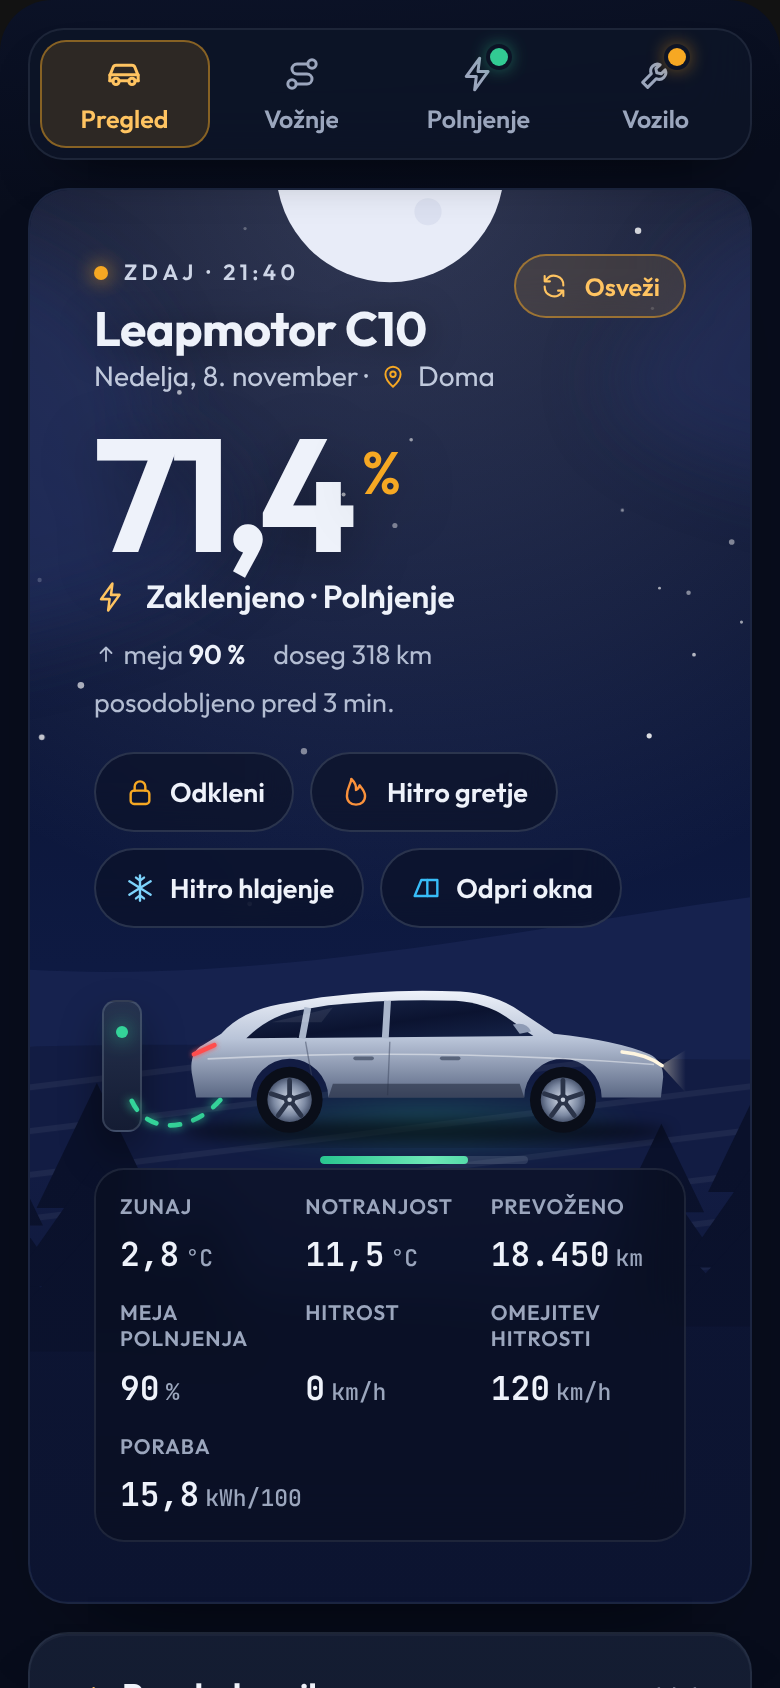
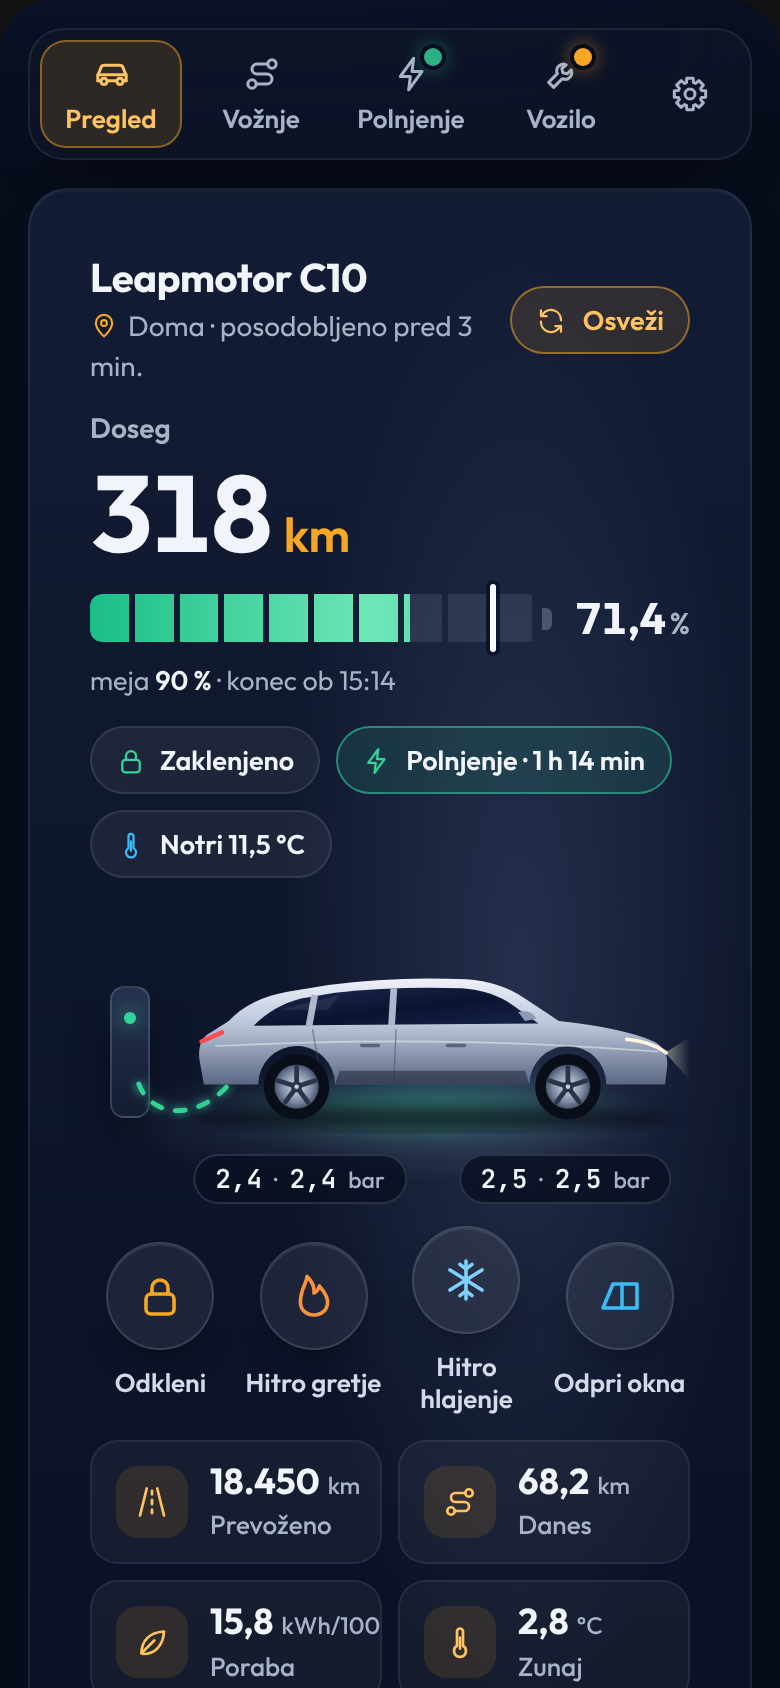
README: show the Car app theme
All README screenshots (English and Slovenian: overview, trips, phone
and the four page views) are re-rendered in the Car app theme, with
the new Settings tab. The banner drops the night sky for the Car app
look: navy studio with the car on a lit floor, range with a segmented
battery bar and tire pressures at the wheels. The README text names the
theme shown and points to the Settings tab and the other two themes.
The remote-control image is unchanged, as that panel looks the same in
every theme.

Claude-Session: https://claude.ai/code/session_01ReYF8JBFAz6XkVGHJAtrq6

diff --git a/docs/preview/banner.html b/docs/preview/banner.html
@@ -9,9 +9,10 @@
     @font-face { font-family: "LM JetBrains Mono"; font-weight: 100 900; src: url("../../custom_components/leapmotor/frontend/fonts/jetbrains-mono-latin-wght-normal.woff2") format("woff2"); }
     :root { color-scheme: dark; }
     html, body { margin: 0; background: transparent; }
-    .banner { position: relative; width: 1280px; height: 560px; overflow: hidden; border-radius: 28px; font-family: "LM Outfit", system-ui, sans-serif; color: #e9eef8; background: #0b1430; }
-    .scene, .scene svg { position: absolute; inset: 0; width: 100%; height: 100%; }
-    .shade { position: absolute; inset: 0; background: linear-gradient(90deg, rgba(7,12,30,.82) 0%, rgba(7,12,30,.45) 42%, rgba(7,12,30,0) 70%); }
+    /* Car app theme of the card: navy studio, spotlight on the car, floor reflection. */
+    .banner { position: relative; width: 1280px; height: 560px; overflow: hidden; border-radius: 28px; font-family: "LM Outfit", system-ui, sans-serif; color: #e9eef8;
+      background: radial-gradient(34% 58% at 75% 66%, rgba(165,190,255,.2), transparent 72%), linear-gradient(180deg, #131c35, #0a1124); }
+    .floor { position: absolute; right: 20px; bottom: 22px; width: 680px; height: 150px; border-radius: 50%; background: radial-gradient(closest-side, rgba(185,205,255,.17), transparent); }
     .copy { position: absolute; left: 64px; top: 60px; width: 600px; }
     .eyebrow { display: flex; align-items: center; gap: 10px; font-size: 13px; font-weight: 600; letter-spacing: .24em; text-transform: uppercase; color: #c3cbe0; }
     .dot { width: 8px; height: 8px; border-radius: 50%; background: #f6a823; box-shadow: 0 0 12px #f6a823; }
@@ -24,31 +25,40 @@
     .chip { display: inline-flex; align-items: center; gap: 8px; padding: 8px 14px; border-radius: 999px; background: rgba(9,15,33,.62); border: 1px solid rgba(148,163,184,.2); font-size: 14px; font-weight: 600; backdrop-filter: blur(8px); }
     .chip i { width: 7px; height: 7px; border-radius: 50%; background: var(--c); box-shadow: 0 0 10px var(--c); }
     .car { position: absolute; right: 70px; bottom: 58px; width: 520px; }
-    .car svg.carsvg { width: 100%; height: auto; display: block; }
+    .car svg.carsvg { width: 100%; height: auto; display: block; -webkit-box-reflect: below -2px linear-gradient(transparent 80%, rgba(255,255,255,.13)); }
+    .tp { position: absolute; top: calc(100% + 12px); transform: translateX(-50%); padding: 3px 11px; border-radius: 999px; background: rgba(9,15,33,.8); border: 1px solid rgba(148,163,184,.22); font: 600 14px "LM JetBrains Mono", monospace; white-space: nowrap; }
+    .tp small { font: 500 12px "LM Outfit", sans-serif; color: #98a3b8; margin-left: 4px; }
     .wallbox { position: absolute; left: -36px; bottom: 12px; width: 22px; height: 74px; border-radius: 7px; background: linear-gradient(180deg,#26324f,#141c33); border: 1px solid rgba(148,163,184,.25); }
     .wallbox::after { content: ""; position: absolute; left: 50%; top: 13px; width: 7px; height: 7px; margin-left: -3.5px; border-radius: 50%; background: #34d399; box-shadow: 0 0 12px #34d399; }
     .cable { position: absolute; left: -26px; bottom: 6%; width: calc(16% + 26px); height: 52%; overflow: visible; }
     .cable path { fill: none; stroke: #34d399; stroke-width: 2.6; stroke-linecap: round; stroke-dasharray: 5 7; filter: drop-shadow(0 0 4px #34d399); }
     .glow { position: absolute; left: 8%; right: 8%; bottom: -8px; height: 40px; border-radius: 50%; background: radial-gradient(closest-side, rgba(52,211,153,.5), transparent); filter: blur(6px); }
-    .stat { position: absolute; right: 86px; top: 70px; padding: 18px 22px; border-radius: 18px; background: rgba(9,15,33,.6); border: 1px solid rgba(148,163,184,.18); backdrop-filter: blur(12px); min-width: 260px; }
-    .stat small { display: block; font-size: 11px; letter-spacing: .22em; text-transform: uppercase; color: #8a95ab; font-weight: 600; }
-    .stat b { display: block; font-size: 54px; line-height: 1; margin-top: 10px; letter-spacing: -.04em; }
-    .stat b em { font-style: normal; font-size: 22px; color: #f6a823; font-weight: 500; margin-left: 4px; vertical-align: top; }
-    .stat .row { display: flex; gap: 14px; margin-top: 12px; font-family: "LM JetBrains Mono", monospace; font-size: 13px; color: #c3cbe0; }
+    .stat { position: absolute; right: 86px; top: 58px; padding: 18px 22px; border-radius: 18px; background: rgba(9,15,33,.55); border: 1px solid rgba(148,163,184,.18); backdrop-filter: blur(12px); min-width: 300px; }
+    .stat small { display: block; font-size: 14px; color: #a9b3c7; font-weight: 600; }
+    .stat b { display: flex; align-items: baseline; gap: 6px; font-size: 58px; line-height: 1; margin-top: 4px; letter-spacing: -.035em; }
+    .stat b em { font-style: normal; font-size: 22px; color: #f6a823; font-weight: 600; letter-spacing: 0; }
+    .batt { display: flex; align-items: center; gap: 12px; margin-top: 12px; }
+    .bwrap { position: relative; flex: 1; padding-right: 7px; }
+    .bwrap::after { content: ""; position: absolute; right: 0; top: 50%; width: 5px; height: 10px; margin-top: -5px; border-radius: 0 3px 3px 0; background: rgba(148,163,184,.4); }
+    .bseg { position: relative; height: 20px; border-radius: 5px; background: rgba(148,163,184,.17); overflow: hidden;
+      -webkit-mask: repeating-linear-gradient(90deg, #000 0 calc(10% - 3px), transparent calc(10% - 3px) 10%); mask: repeating-linear-gradient(90deg, #000 0 calc(10% - 3px), transparent calc(10% - 3px) 10%); }
+    .bseg i { position: absolute; left: 0; top: 0; bottom: 0; width: 71.4%; background: linear-gradient(90deg, #10b981, #6ee7b7); }
+    .blim { position: absolute; top: -5px; bottom: -5px; left: calc((100% - 7px) * .9); width: 3px; margin-left: -1.5px; border-radius: 2px; background: #f8fafc; box-shadow: 0 0 0 2px rgba(10,17,36,.85); }
+    .batt span { font-size: 19px; font-weight: 700; }
+    .stat .row { display: flex; gap: 14px; margin-top: 12px; font-size: 14px; font-weight: 600; color: #c3cbe0; }
     .stat .row span { display: inline-flex; align-items: center; gap: 6px; }
   </style>
 </head>
 <body>
   <div class="banner" id="banner">
-    <div class="scene" id="scene"></div>
-    <div class="shade"></div>
+    <div class="floor"></div>
     <div class="copy">
       <div class="eyebrow"><span class="dot"></span><span data-sl="Integracija za Home Assistant">Home Assistant integration</span></div>
       <div class="brand">
         <img src="../../custom_components/leapmotor/logo.svg" alt="">
         <h1>Leapmotor<span data-sl="za Home Assistant">for Home Assistant</span></h1>
       </div>
-      <p data-sl="Baterija, polnjenje, vrata, pnevmatike, vožnje in daljinsko upravljanje — z vgrajeno nočno nadzorno ploščo.">Battery, charging, doors, tires, trips and remote control — with a built-in night-sky dashboard.</p>
+      <p data-sl="Baterija, polnjenje, vrata, pnevmatike, vožnje in daljinsko upravljanje — z vgrajeno nadzorno ploščo v treh temah.">Battery, charging, doors, tires, trips and remote control — with a built-in dashboard in three themes.</p>
       <div class="chips">
         <span class="chip"><i style="--c:#f6a823"></i><span data-sl="Namestitev prek HACS">HACS ready</span></span>
         <span class="chip"><i style="--c:#34d399"></i>C10 · B10 · T03 · A10</span>
@@ -56,18 +66,19 @@
       </div>
     </div>
     <div class="stat">
-      <small data-sl="Zdaj · polnjenje">Now · charging</small>
-      <b>71,4<em>%</em></b>
-      <div class="row"><span style="color:#34d399">● 10.8 kW</span><span>1 h 14 min</span><span>318 km</span></div>
+      <small data-sl="Doseg">Range</small>
+      <b>318<em>km</em></b>
+      <div class="batt"><div class="bwrap"><div class="bseg"><i></i></div><span class="blim"></span></div><span data-sl="71,4 %">71.4 %</span></div>
+      <div class="row"><span style="color:#34d399" data-sl="● Polnjenje · 10,8 kW">● Charging · 10.8 kW</span><span>1 h 14 min</span></div>
     </div>
     <div class="car" id="car"><div class="glow"></div><div class="wallbox"></div>
       <svg class="cable" viewBox="0 0 100 96" preserveAspectRatio="none"><path d="M8 50C14 98 70 102 96 30" vector-effect="non-scaling-stroke"/></svg>
+      <span class="tp" style="left:24.3%"><span data-sl="2,4 · 2,4">2.4 · 2.4</span><small>bar</small></span><span class="tp" style="left:76.5%"><span data-sl="2,5 · 2,5">2.5 · 2.5</span><small>bar</small></span>
     </div>
   </div>
   <script type="module">
     import "../../custom_components/leapmotor/frontend/leapmotor-card.js";
     const art = customElements.get("leapmotor-card").art;
-    document.getElementById("scene").innerHTML = art.sceneSvg("night");
     document.getElementById("car").insertAdjacentHTML("beforeend", art.carSvg(true));
     if (new URLSearchParams(location.search).get("lang") === "sl") {
       document.documentElement.lang = "sl";

diff --git a/README.en.md b/README.en.md
@@ -33,7 +33,7 @@
 ## ✦ The dashboard
 
 <p align="center">
-  <img src="docs/images/dashboard.png" alt="Overview page at night while charging" width="100%">
+  <img src="docs/images/dashboard.png" alt="Overview page in the Car app theme while charging" width="100%">
 </p>
 
 One card, everything about the car. It ships **inside** the integration and is
@@ -45,13 +45,17 @@ type: custom:leapmotor-card
 ```
 
 Four pages with tabs: **Overview** (car, vehicle check, remote control),
-**Trips**, **Charging** and **Vehicle** (maintenance, tires, insights).
+**Trips**, **Charging** and **Vehicle** (maintenance, tires, insights), plus
+**Settings**, where everyone picks their theme and language for all their
+devices. The screenshots show the **Car app** theme; the others are the
+**Driver display** (gauges around the car) and **Classic** (night or day sky,
+the default). See [the card guide](docs/card.md#themes) for all three.
 
 <table>
   <tr>
     <td width="33%" valign="top">
-      <b>🌙 Live hero scene</b><br>
-      <sub>Night or day sky that follows the sun, <b>your own car</b> — the official render of your model and colour from the Leapmotor cloud — and a glowing wallbox cable while it charges.</sub>
+      <b>🚗 Your car, three themes</b><br>
+      <sub><b>Your own car</b> — the official render of your model and colour from the Leapmotor cloud — with range, battery bar, tire pressures at the wheels and a glowing wallbox cable while it charges. Or gauges, or the night sky.</sub>
     </td>
     <td width="33%" valign="top">
       <b>✅ Vehicle check</b><br>

diff --git a/README.md b/README.md
@@ -68,7 +68,7 @@ Ročna namestitev brez HACS in vse podrobnosti: **[navodila v slovenščini](doc
 
 **Plug & play:** po namestitvi se v stranski vrstici sama pojavi **Leapmotor** s celotno nadzorno ploščo. Ničesar ni treba nastavljati. Če imaš več vozil, ima vsako svojo. Skriješ jo v **Leapmotor → Nastavi** (stikalo *Prikaži nadzorno ploščo v stranski vrstici*).
 
-Kartica ima **štiri strani z zavihki**. Pika na zavihku pove, da je na tisti strani nekaj za pogledati.
+Kartica ima **štiri strani z zavihki** in zavihek **Nastavitve** (zobnik). Pika na zavihku pove, da je na tisti strani nekaj za pogledati. Slike kažejo temo **Aplikacija**.
 
 <table>
   <tr>

diff --git a/docs/card.md b/docs/card.md
@@ -1,5 +1,5 @@
 <p align="center">
-  <img src="images/dashboard.png" alt="Leapmotor dashboard card, Overview page" width="100%">
+  <img src="images/dashboard.png" alt="Leapmotor dashboard card, Overview page in the Car app theme" width="100%">
 </p>
 
 # Leapmotor dashboard card
